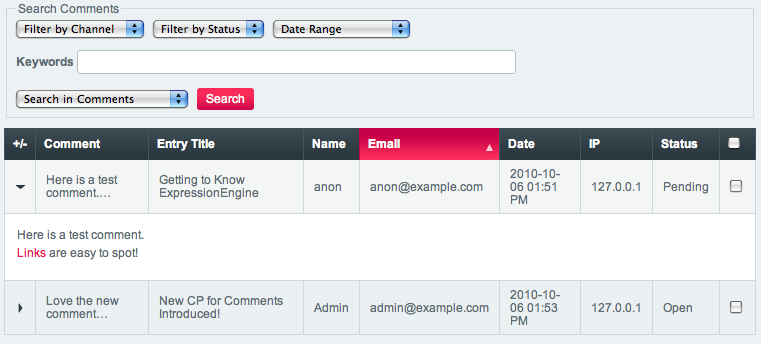
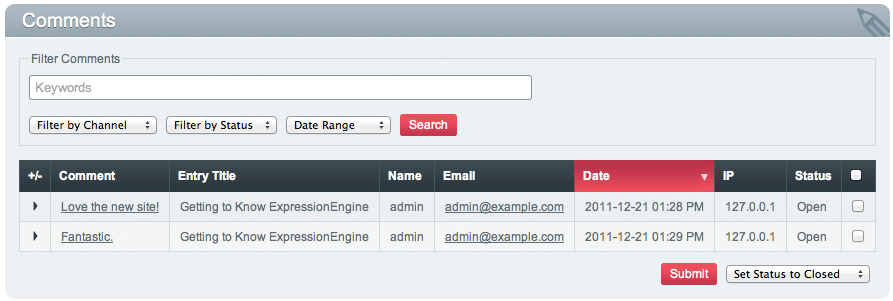
Updating Comment Module page and screenshot

diff --git a/source/modules/comment/control_panel/index.rst b/source/modules/comment/control_panel/index.rst
@@ -10,9 +10,7 @@ Comment Module Control Panel
 
 The Comment Module Control Panel allows you to moderate comments. By
 using the drop-down menus the list can be filtered by channel, comment
-status, or date range. In addition, you can search in the comments, by
-commenter IP address, commenter name, commenter email and by the channel
-entry title the comment is assigned to. You can select multiple comments
+status, or date range. You can select multiple comments
 using the checkboxes on the right, then either delete them or change
 their status using the option menu at the bottom of the page.
 
@@ -26,8 +24,7 @@ Search and Filter
 
 The main table shows the following columns:
 
--  **Display toggle**: Toggles the display of the full comment. Click on
-   the column heading to expand/collapse all comments.
+-  **Display toggle**: Toggles the display of the full comment.
 -  **Comment**: The comment body, limited by default to 100 characters
    with line breaks preserved (see
    `view\_comment\_chars <../../../general/hidden_configuration_variables.html#view_comment_chars>`_
@@ -35,30 +32,23 @@ The main table shows the following columns:
    `view\_comment\_leave\_breaks <../../../general/hidden_configuration_variables.html#view_comment_leave_breaks>`_
    for formatting options). Clicking the comment text allows you to
    `view or edit the comment <#editing-comments>`_.
--  **Entry Title**: Click to search in entry titles for all comments for
-   this entry.
--  **Name**: The commenter's name. Click to search in names for more
-   name matches.
--  **Email**: The commenter's email address. Click to search for more
-   email matches.
+-  **Entry Title**: The title of the Entry the comment was posted to.
+-  **Name**: The commenter's name.
+-  **Email**: The commenter's email address.
 -  **Date**: The date and time assigned to the comment.
--  **IP**: The commenter's IP address. Click to search for more IP
-   matches.
+-  **IP**: The commenter's IP address.
 -  **Status**: The status of the comment (Pending, Open or Closed).
-   Click to filter on this status.
 
-**NOTE:** The 'Add IPs to Blacklist' checkbox is only available when
-deleting comments. The `Blacklist Module <../../blacklist/index.html>`_
-must be installed to use this feature.
+.. note:: The 'Add IPs to Blacklist' checkbox is only available when
+   deleting comments. The `Blacklist Module <../../blacklist/index.html>`_
+   must be installed to use this feature.
 
 Comment Administration Privileges
 ~~~~~~~~~~~~~~~~~~~~~~~~~~~~~~~~~
 
 Comment administration permissions are set on a per member group basis
 in `Create/Edit Member
-Groups <../../../cp/members/member_groups_edit.html>`_
-
-.
+Groups <../../../cp/members/member_groups_edit.html>`_.
 
 -  **Can Moderate Comments**: Can view all comments and change the
    status of any comment.
@@ -71,8 +61,8 @@ Groups <../../../cp/members/member_groups_edit.html>`_
 -  **Can delete comments in ANY channel entries**: Can delete any
    comment.
 
-**NOTE:** In order to moderate comments, the member must have access to
-the Comment Module Control Panel.
+.. note:: In order to moderate comments, the member must have access to
+   the Comment Module Control Panel.
 
 Settings
 --------
